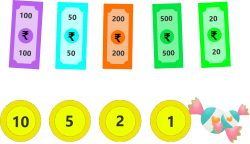
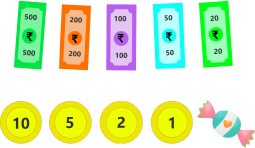
Cashier notes ordered

diff --git a/public/CashierGameFiles/script.js b/public/CashierGameFiles/script.js
@@ -1,7 +1,7 @@
 let Item_1_price = 700
 let amount_added = 0
 let change = 0
-let cash_values = [ 100, 50, 200, 500, 20, 10, 5, 2, 1 ] // 500,200,10,5,20
+let cash_values = [ 500, 200, 100, 50, 20, 10, 5, 2, 1 ] // 500,200,10,5,20
 let item_number = 0
 
 
